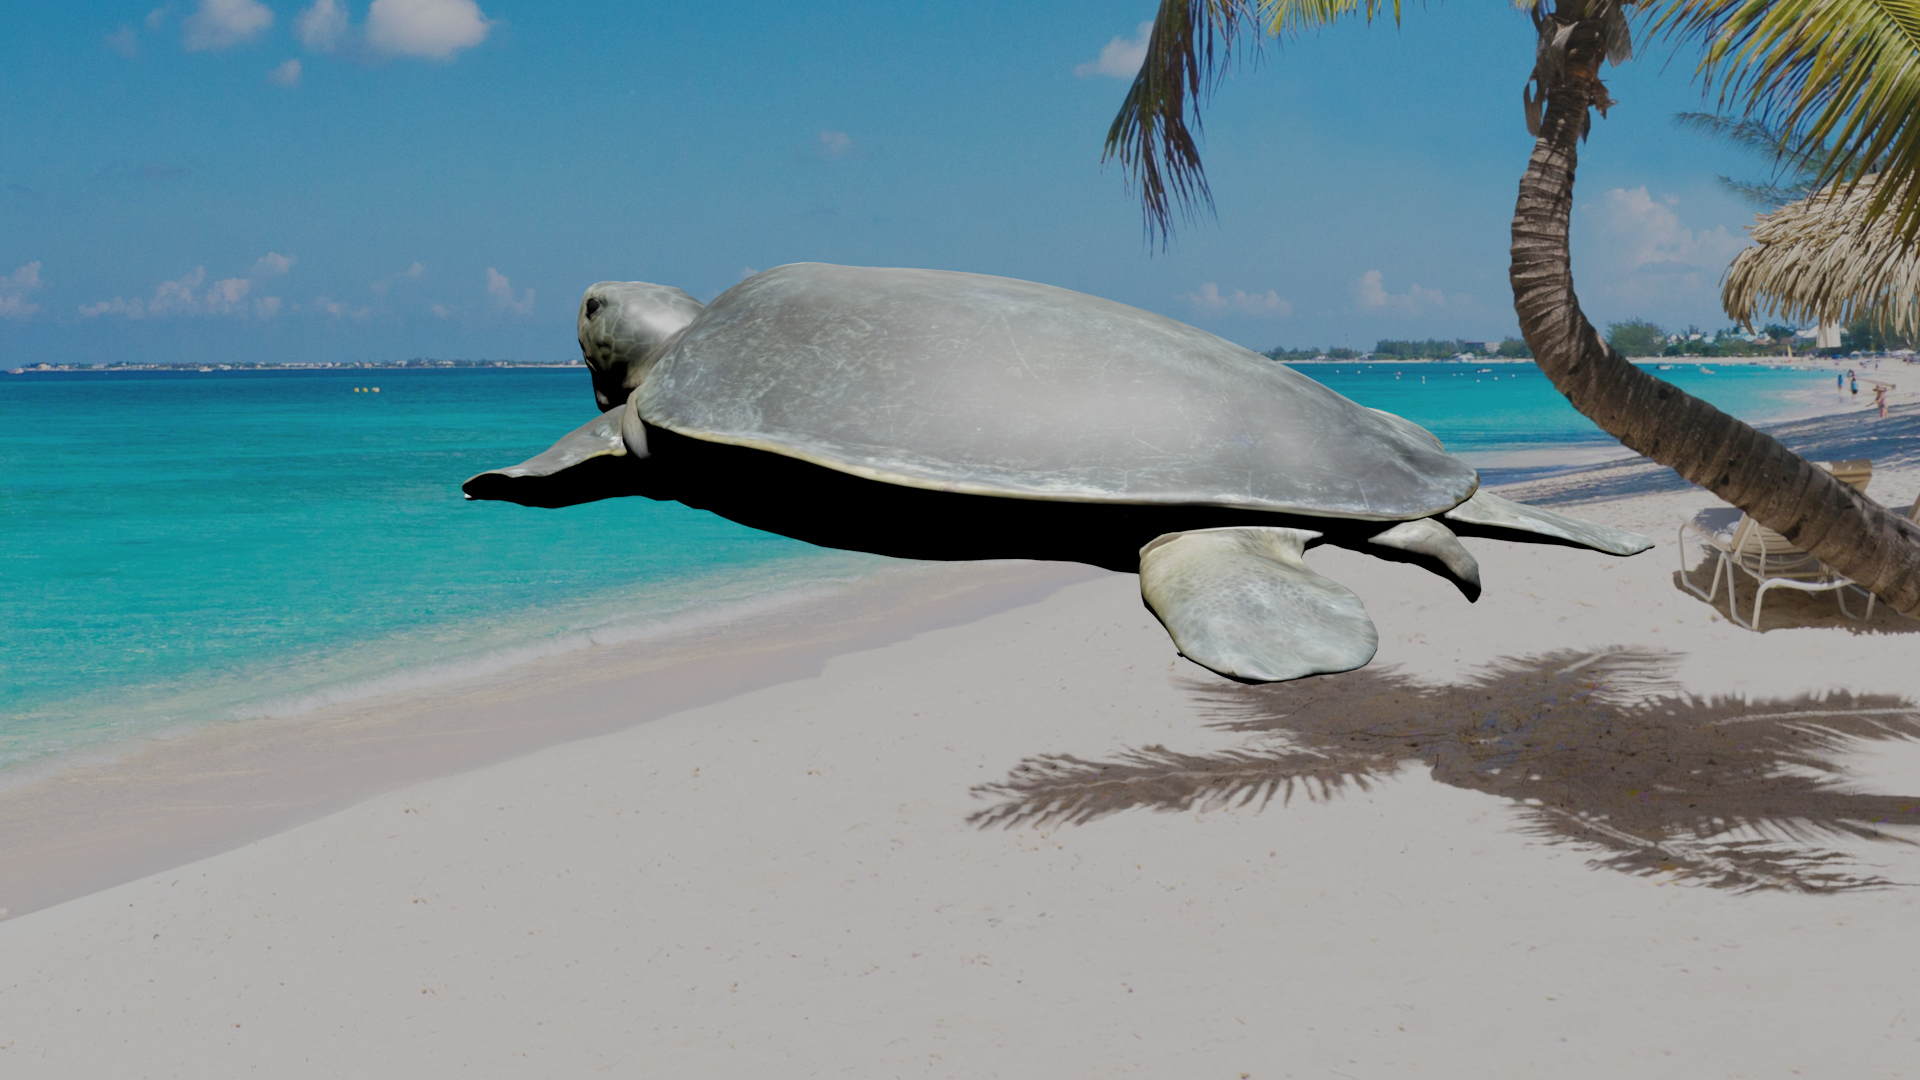
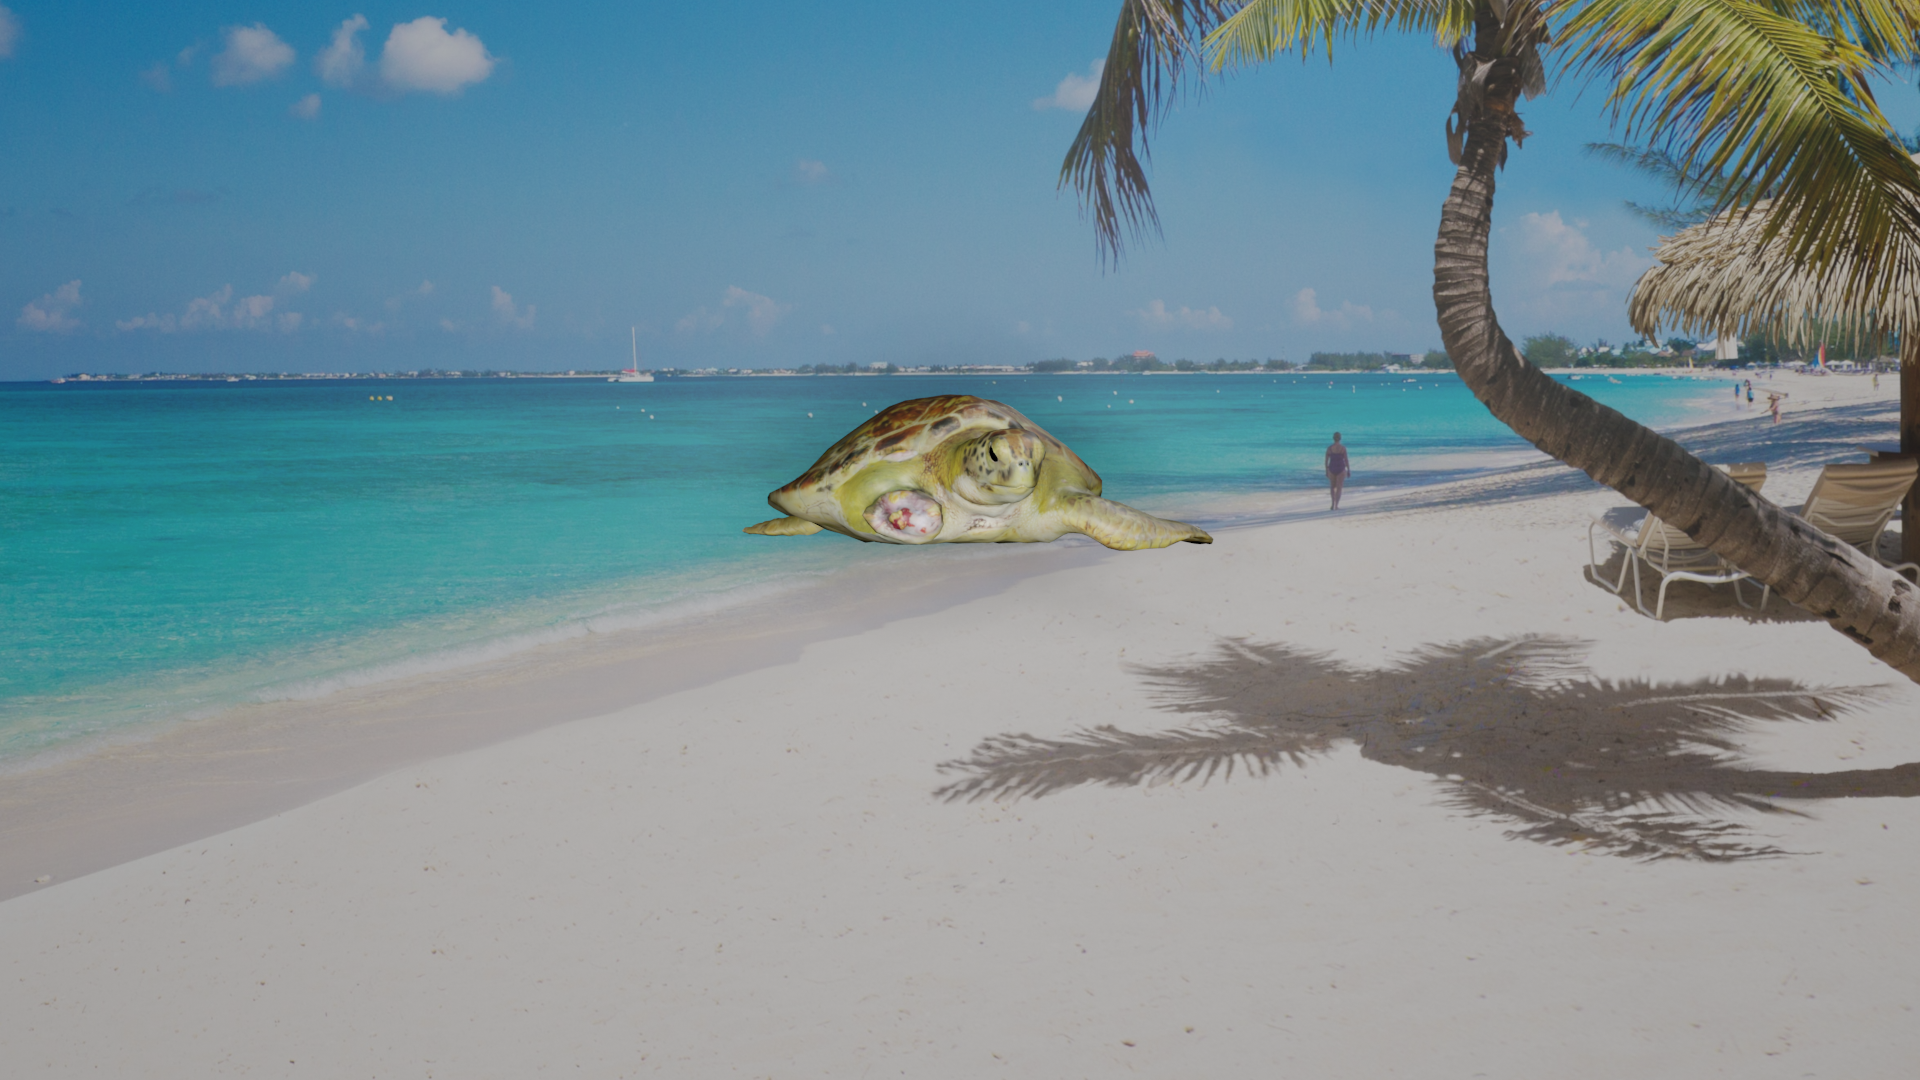
Add stochastic offset to object position Add default black material to untextured objects

diff --git a/synthblend.py b/synthblend.py
@@ -82,8 +82,16 @@ bpy.ops.wm.collada_import(filepath=work_directory + models_directory + model)
 # Scale up the object 
 bpy.context.scene.cursor.location = (0.0, 0.0, 0.0)
 bpy.ops.object.origin_set(type='ORIGIN_GEOMETRY') 
-print(bpy.data.objects.keys())
 bpy.data.objects[model[:-4]].scale = (1, 1, 1)
+
+# Set objects color to black by default 
+for obj in bpy.data.objects.keys():
+  for slot in bpy.data.objects[obj].material_slots:
+      new_mat = bpy.data.materials.new(name="black")
+      new_mat.diffuse_color = (0,0,0, 1)
+      slot.material = new_mat
+  # print(dbpy.data.objects[obj].data)
+  # bpy.data.objects[obj].color = (1, 0, 0, 1)
 
 # Apply the mesh 
 mat = bpy.data.materials.new(name=mesh[:-4])
@@ -109,6 +117,11 @@ x = radius * math.sin(phi) * math.cos(theta)
 y = radius * math.sin(phi) * math.sin(theta)
 z = radius * math.cos(phi)
 
+# Choose a random offset for the x, y, and z direction 
+x += 0.1 * random.random() * x
+y +=  0.1 * random.random() * y
+z += 0.1 * random.random() * z
+
 # Add a camera
 camera = bpy.data.cameras.new("Camera")
 camera_obj = bpy.data.objects.new("Camera", camera)
@@ -117,9 +130,10 @@ camera_obj.rotation_euler = (phi, 0., theta + math.pi / 2)
 bpy.context.scene.camera = camera_obj
 
 # Add the sun
-light = bpy.data.lights.new(name="Light", type='SUN')
+light = bpy.data.lights.new(name="Light", type='POINT')
+light.energy = 750
 light_obj = bpy.data.objects.new("Light", light)
-light_obj.location = (3, -3, float('inf'))
+light_obj.location = (x, y, z)
 bpy.context.collection.objects.link(light_obj)
 bpy.context.view_layer.objects.active = light_obj
 

diff --git a/render.py b/render.py
@@ -7,7 +7,7 @@ Script for generating many synthetic images
 import os 
 
 BLENDER_DIR = "C:\Program Files\Blender Foundation\Blender 2.83"
-NUM_RENDERS =  500 
+NUM_RENDERS =  1 
 
 # Determine the working directory 
 WORK_DIR = os.getcwd()
